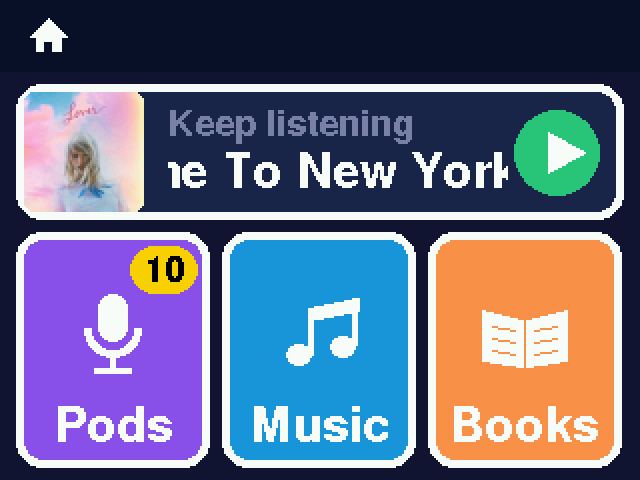
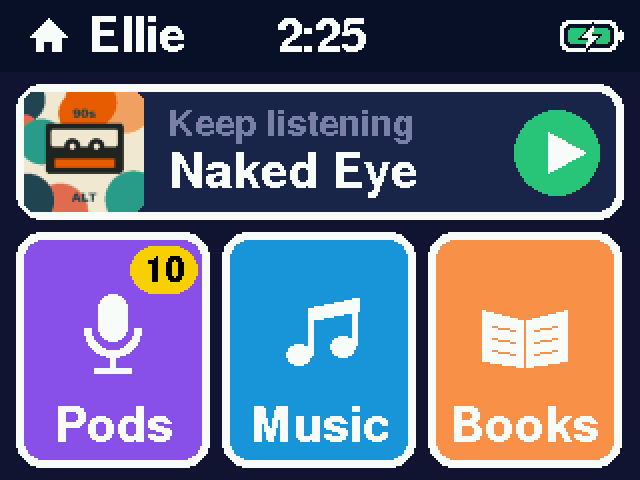
Home's top bar: name, clock, headphones/WiFi, battery

diff --git a/CHANGELOG.md b/CHANGELOG.md
@@ -18,6 +18,10 @@ e.g. `0.3.0+6.cb61af8`.
   while something plays (a play triangle when paused).
 - The top bar is in the shelf's own color, as on Home (Music blue, Pods purple, Books
   orange), on its albums, songs and player.
+- Home's top bar: whose it is ("Ellie") after the house, the time in the middle (once
+  the clock has been set), and on the right headphones while they're connected (a WiFi
+  mark in WiFi mode) and the battery: white, red under 20%, green with a bolt while
+  charging.
 - Albums are A to Z again (the carousel goes round, so order matters less), and a
   shelf opens on the album opened or played most recently there. Opening an album's
   songs now counts as recent, not only playing it.

diff --git a/README.md b/README.md
@@ -23,6 +23,9 @@ everything on it chosen by a grown-up.
   whole book, with a tick between chapters.
 - **The player** has quieter / previous / play / next / louder, and a bar to drag. Swipe
   for the next or previous track.
+- **Home's top bar** has the owner's name, the time, and on the right headphones (when
+  connected; WiFi mode: a WiFi mark) and the battery (red when low, a bolt when
+  charging).
 - **The top bar** has back on the left, the shelf's name, and on the right the
   now-playing button: its bars bounce on green while something plays; tap it for the
   player. Home doesn't have it (Keep listening does that job): leaving Home for a shelf,
